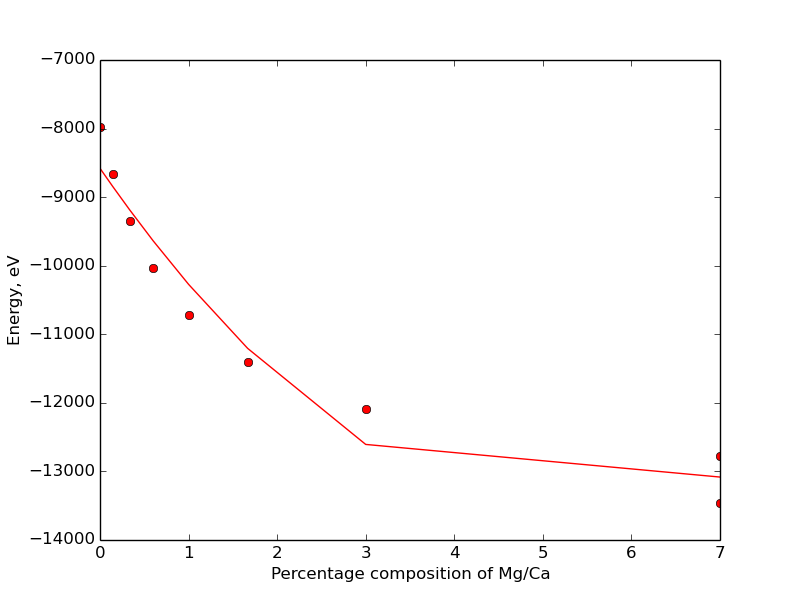
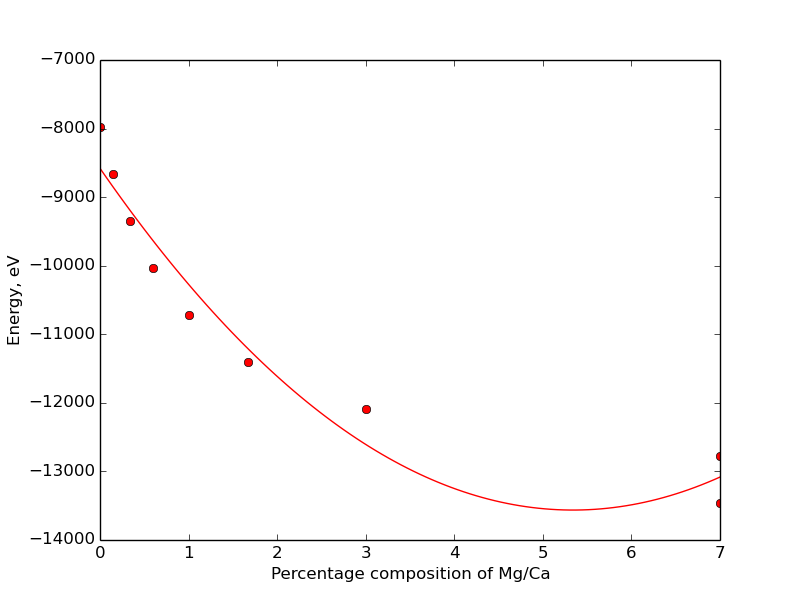
added plot.sh to call the python plotting program, works for any dat file for arbritary degrees of freedom

diff --git a/plotting.py b/plotting.py
@@ -5,15 +5,19 @@ datafile=raw_input('enter data file name: ')
 x, y = np.genfromtxt(datafile, unpack=True)
 
 #order of fit
-n=2
+n=raw_input('enter degrees of freedom for fit')
 
 #Calculate best fit order n 
 p = np.polyfit(x,y,n)
+#print coefficients
 print p
 
-fit= np.polyval(p, x)
+#rewrite fit as a function
+fit =np.poly1d(p)
+#generate smooth points to plot the fit
+xp=np.linspace(min(x),max(x), 100)
 
-plt.plot(x, y, 'ro', x, np.polyval(p, x), 'r-')
+plt.plot(x, y, 'ro', xp, fit(xp), 'r-')
 
 plt.ylabel('Energy, eV')
 plt.xlabel('Percentage composition of Mg/Ca')
